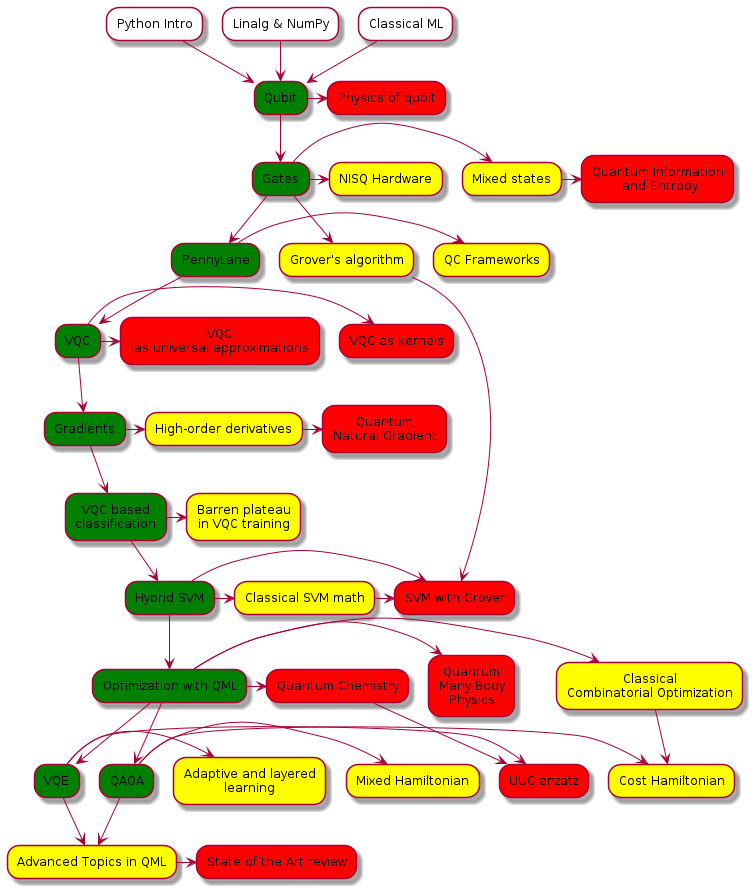
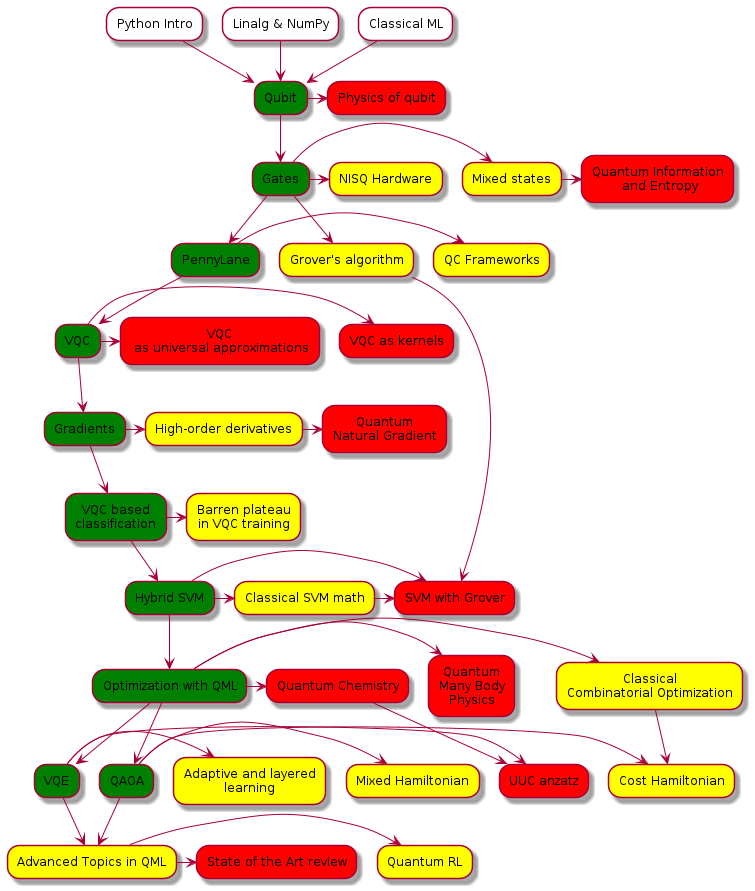
Add Quantum RL
On branch course-programm
Changes to be committed:
modified:   COURSE_PROGRAM.html
modified:   COURSE_PROGRAM.org
modified:   images/course_program.png

Changed region(s): [[0.4874, 0.9394, 0.6397, 1.0]]

diff --git a/COURSE_PROGRAM.html b/COURSE_PROGRAM.html
@@ -3,7 +3,7 @@
 "http://www.w3.org/TR/xhtml1/DTD/xhtml1-strict.dtd">
 <html xmlns="http://www.w3.org/1999/xhtml" lang="en" xml:lang="en">
 <head>
-<!-- 2021-03-18 Thu 17:29 -->
+<!-- 2021-03-18 Thu 18:04 -->
 <meta http-equiv="Content-Type" content="text/html;charset=utf-8" />
 <meta name="viewport" content="width=device-width, initial-scale=1" />
 <title>QMLCourse.ai</title>
@@ -407,28 +407,28 @@
 <h2>Table of Contents</h2>
 <div id="text-table-of-contents">
 <ul>
-<li><a href="#org709aca8">1. Course schema</a>
+<li><a href="#org35c41cf">1. Course schema</a>
 <ul>
-<li><a href="#orga2d1230">1.1. How to read the schema?</a></li>
+<li><a href="#org75a6592">1.1. How to read the schema?</a></li>
 </ul>
 </li>
 </ul>
 </div>
 </div>
 
-<div id="outline-container-org709aca8" class="outline-2">
-<h2 id="org709aca8"><span class="section-number-2">1</span> Course schema</h2>
+<div id="outline-container-org35c41cf" class="outline-2">
+<h2 id="org35c41cf"><span class="section-number-2">1</span> Course schema</h2>
 <div class="outline-text-2" id="text-1">
 
-<div id="org4b4c5ee" class="figure">
+<div id="orgda87352" class="figure">
 <p><img src="./images/course_program.png" alt="course_program.png" />
 </p>
 </div>
 </div>
 
 
-<div id="outline-container-orga2d1230" class="outline-3">
-<h3 id="orga2d1230"><span class="section-number-3">1.1</span> How to read the schema?</h3>
+<div id="outline-container-org75a6592" class="outline-3">
+<h3 id="org75a6592"><span class="section-number-3">1.1</span> How to read the schema?</h3>
 <div class="outline-text-3" id="text-1-1">
 <ul class="org-ul">
 <li><b>WHITE</b> &#x2013; introductory blocks covering prerequisites for the rest of the course;</li>
@@ -442,7 +442,7 @@
 </div>
 <div id="postamble" class="status">
 <p class="author">Author: Semyon Sinchenko &amp; ODS.ai</p>
-<p class="date">Created: 2021-03-18 Thu 17:29</p>
+<p class="date">Created: 2021-03-18 Thu 18:04</p>
 </div>
 </body>
 </html>
